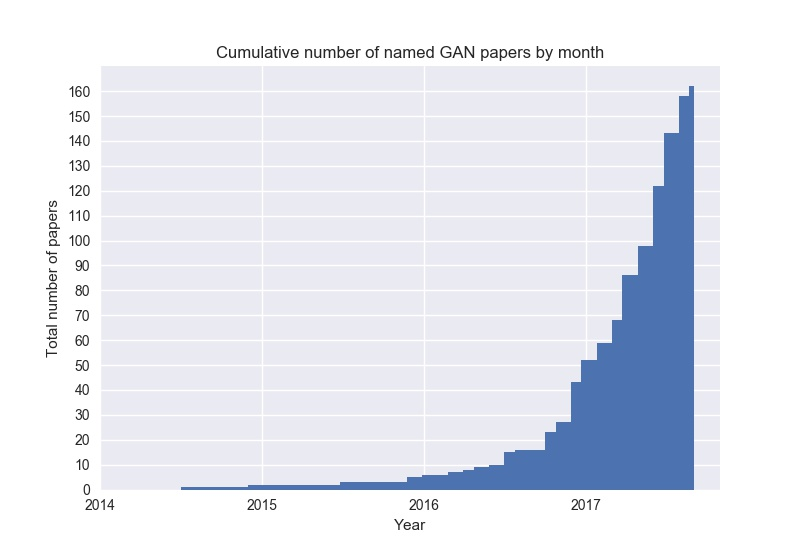
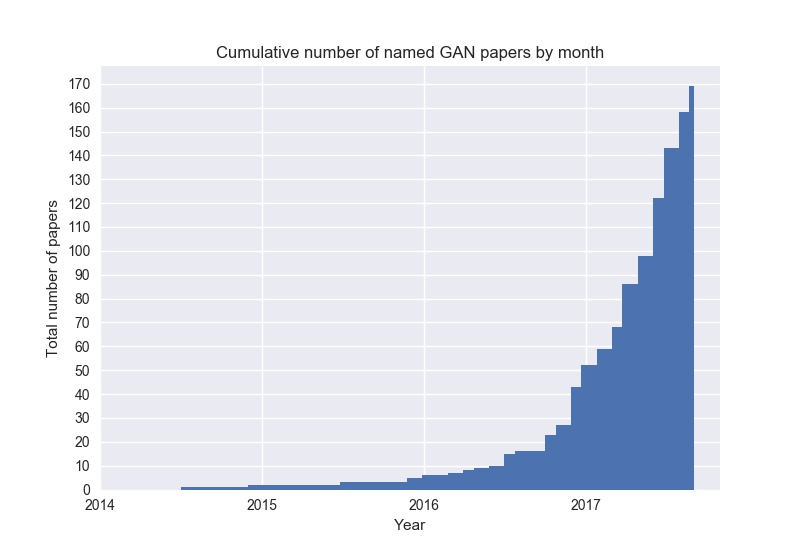
add BGAN, GAN-VFS, MGGAN, PGAN, SS-GAN, GAN-sep, VIGAN
Add 7 new GANs:
* Binary GAN (BGAN)
* Generative Adversarial Network-based Visible Face Synthesis (GAN-VFS)
* Multi-Generators GANs (MGGAN)
* Probabilistic Generative Adversarial Network (PGAN)
* semi-supervised GAN (SS-GAN)
* separable GAN (GAN-sep)
* View Imputation GAN (VIGAN)

diff --git a/README.md b/README.md
@@ -34,6 +34,7 @@ Check out [Deep Hunt](https://deephunt.in) - my weekly AI newsletter for this re
 * Bayesian GAN - [Bayesian GAN](https://arxiv.org/abs/1705.09558) 
 * BCGAN - [Bayesian Conditional Generative Adverserial Networks](https://arxiv.org/abs/1706.05477) 
 * BEGAN - [BEGAN: Boundary Equilibrium Generative Adversarial Networks](https://arxiv.org/abs/1703.10717) 
+* BGAN - [Binary Generative Adversarial Networks for Image Retrieval](https://github.com/htconquer/BGAN) ([github](https://github.com/htconquer/BGAN))
 * BiGAN - [Adversarial Feature Learning](https://arxiv.org/abs/1605.09782v7) 
 * BS-GAN - [Boundary-Seeking Generative Adversarial Networks](https://arxiv.org/abs/1702.08431v1) 
 * C-RNN-GAN - [C-RNN-GAN: Continuous recurrent neural networks with adversarial training](https://arxiv.org/abs/1611.09904) ([github](https://github.com/olofmogren/c-rnn-gan/))
@@ -74,6 +75,8 @@ Check out [Deep Hunt](https://deephunt.in) - my weekly AI newsletter for this re
 * Fisher GAN - [Fisher GAN](https://arxiv.org/abs/1705.09675) 
 * Flow-GAN - [Flow-GAN: Bridging implicit and prescribed learning in generative models](https://arxiv.org/abs/1705.08868) 
 * GAN - [Generative Adversarial Networks](https://arxiv.org/abs/1406.2661) ([github](https://github.com/goodfeli/adversarial))
+* GAN-sep - [GANs for Biological Image Synthesis](https://arxiv.org/abs/1708.04692) ([github](https://github.com/aosokin/biogans))
+* GAN-VFS - [Generative Adversarial Network-based Synthesis of Visible Faces from Polarimetric Thermal Faces](https://arxiv.org/abs/1708.02681) 
 * GANCS - [Deep Generative Adversarial Networks for Compressed Sensing Automates MRI](https://arxiv.org/abs/1706.00051) 
 * GAWWN - [Learning What and Where to Draw](https://arxiv.org/abs/1610.02454) ([github](https://github.com/reedscot/nips2016))
 * GeneGAN - [GeneGAN: Learning Object Transfiguration and Attribute Subspace from Unpaired Data](https://arxiv.org/abs/1705.04932) ([github](https://github.com/Prinsphield/GeneGAN))
@@ -108,6 +111,7 @@ Check out [Deep Hunt](https://deephunt.in) - my weekly AI newsletter for this re
 * MDGAN - [Mode Regularized Generative Adversarial Networks](https://arxiv.org/abs/1612.02136) 
 * MedGAN - [Generating Multi-label Discrete Electronic Health Records using Generative Adversarial Networks](https://arxiv.org/abs/1703.06490v1) 
 * MGAN - [Precomputed Real-Time Texture Synthesis with Markovian Generative Adversarial Networks](https://arxiv.org/abs/1604.04382) ([github](https://github.com/chuanli11/MGANs))
+* MGGAN - [Multi-Generator Generative Adversarial Nets](https://arxiv.org/abs/1708.02556) 
 * MIX+GAN - [Generalization and Equilibrium in Generative Adversarial Nets (GANs)](https://arxiv.org/abs/1703.00573v3) 
 * MMD-GAN - [MMD GAN: Towards Deeper Understanding of Moment Matching Network](https://arxiv.org/abs/1705.08584) ([github](https://github.com/dougalsutherland/opt-mmd))
 * MMGAN - [MMGAN: Manifold Matching Generative Adversarial Network for Generating Images](https://arxiv.org/abs/1707.08273) 
@@ -117,6 +121,7 @@ Check out [Deep Hunt](https://deephunt.in) - my weekly AI newsletter for this re
 * ORGAN - [Objective-Reinforced Generative Adversarial Networks (ORGAN) for Sequence Generation Models ](https://arxiv.org/abs/1705.10843) 
 * PAN - [Perceptual Adversarial Networks for Image-to-Image Transformation](https://arxiv.org/abs/1706.09138) 
 * Perceptual GAN - [Perceptual Generative Adversarial Networks for Small Object Detection](https://arxiv.org/abs/1706.05274) 
+* PGAN - [Probabilistic Generative Adversarial Networks](https://arxiv.org/abs/1708.01886) 
 * pix2pix - [Image-to-Image Translation with Conditional Adversarial Networks](https://arxiv.org/abs/1611.07004) ([github](https://github.com/phillipi/pix2pix))
 * PixelGAN - [PixelGAN Autoencoders](https://arxiv.org/abs/1706.00531) 
 * Pose-GAN - [The Pose Knows: Video Forecasting by Generating Pose Futures](https://arxiv.org/abs/1705.00053) 
@@ -147,6 +152,7 @@ Check out [Deep Hunt](https://deephunt.in) - my weekly AI newsletter for this re
 * SL-GAN - [Semi-Latent GAN: Learning to generate and modify facial images from attributes](https://arxiv.org/abs/1704.02166) 
 * Softmax-GAN - [Softmax GAN](https://arxiv.org/abs/1704.06191) 
 * SRGAN - [Photo-Realistic Single Image Super-Resolution Using a Generative Adversarial Network](https://arxiv.org/abs/1609.04802) 
+* SS-GAN - [Semi-supervised Conditional GANs](https://arxiv.org/abs/1708.05789) 
 * ss-InfoGAN - [Guiding InfoGAN with Semi-Supervision](https://arxiv.org/abs/1707.04487) 
 * SSGAN - [SSGAN: Secure Steganography Based on Generative Adversarial Networks](https://arxiv.org/abs/1707.01613) 
 * SSL-GAN - [Semi-Supervised Learning with Context-Conditional Generative Adversarial Networks](https://arxiv.org/abs/1611.06430v1) 
@@ -168,6 +174,7 @@ Check out [Deep Hunt](https://deephunt.in) - my weekly AI newsletter for this re
 * VGAN - [Generating Videos with Scene Dynamics](https://arxiv.org/abs/1609.02612) ([github](https://github.com/cvondrick/videogan))
 * VGAN - [Generative Adversarial Networks as Variational Training of Energy Based Models](https://arxiv.org/abs/1611.01799) ([github](https://github.com/Shuangfei/vgan))
 * ViGAN - [Image Generation and Editing with Variational Info Generative Adversarial Networks](https://arxiv.org/abs/1701.04568v1) 
+* VIGAN - [VIGAN: Missing View Imputation with Generative Adversarial Networks](https://arxiv.org/abs/1708.06724) 
 * VRAL - [Variance Regularizing Adversarial Learning](https://arxiv.org/abs/1707.00309) 
 * WaterGAN - [WaterGAN: Unsupervised Generative Network to Enable Real-time Color Correction of Monocular Underwater Images](https://arxiv.org/abs/1702.07392v1) 
 * WGAN - [Wasserstein GAN](https://arxiv.org/abs/1701.07875v2) ([github](https://github.com/martinarjovsky/WassersteinGAN))
